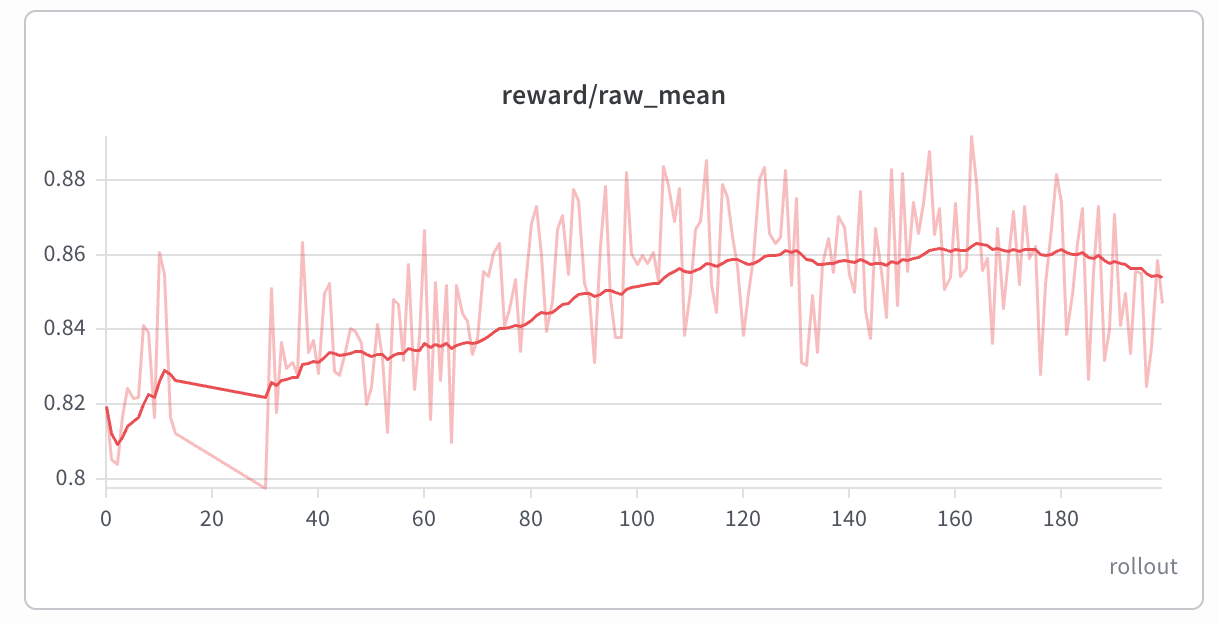
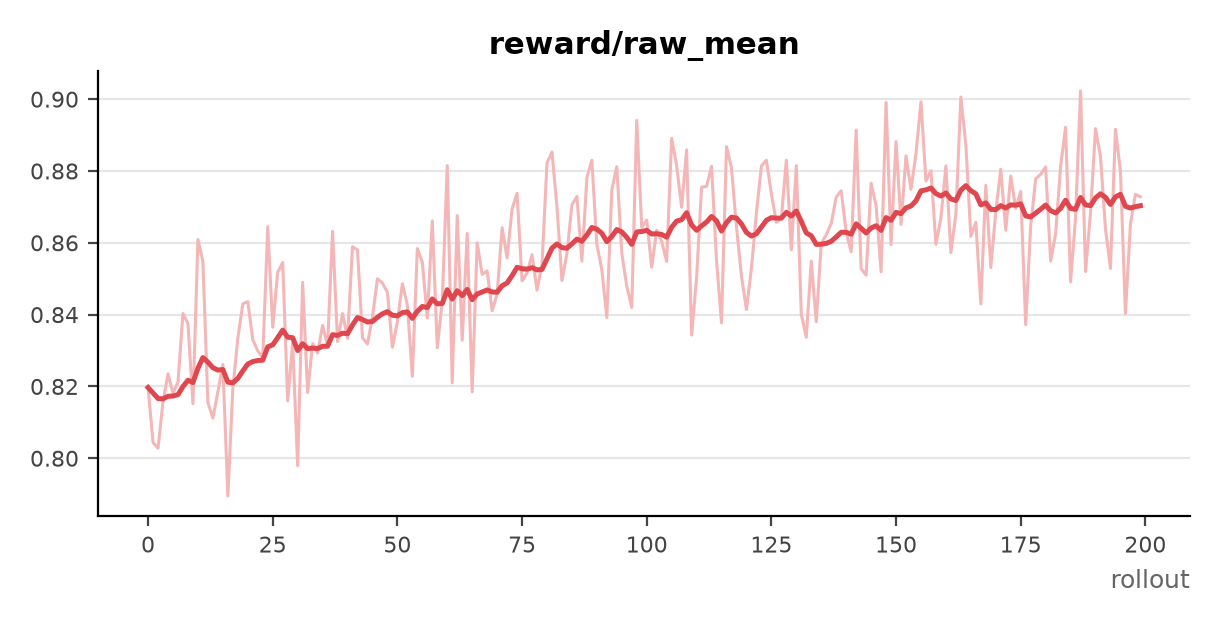
docs(qwen-image21): replace the reference curves with a run on sglang-miles and diffusers 0.41

diff --git a/docs/models/qwen-image/qwen-image-21.md b/docs/models/qwen-image/qwen-image-21.md
@@ -46,8 +46,8 @@ Canonical recipe: `scripts/run_diffusion_grpo_qwenimage21_pickscore_1gpu.py` —
 colocated GPU, train + sglang + PickScore, 512×512, 16×16 group, lr 1e-4.
 Real-weight GRPO needs ≥80GB; 32GB only finished generate.
 
-**Status:** [📈 V — Verified](../../user-guide/recipe-verification.md#v) — 200 rollouts.
-Smoothed `rollout/reward/raw_mean` rises from about 0.81 to about 0.86.
+**Status:** [📈 V — Verified](../../user-guide/recipe-verification.md#v) — 200 rollouts on one H200.
+Smoothed `rollout/reward/raw_mean` rises from about 0.82 to about 0.87.
 
 ```bash
 # alignment diagnostic: freeze weights so log_prob_mean_abs_diff is train-vs-rollout
@@ -74,12 +74,12 @@ python3 scripts/run_diffusion_grpo_qwenimage21_pickscore_1gpu.py \
 
 ## 6. Reference results
 
-The canonical 1-GPU recipe over 200 rollouts (512², 16×16, lr 1e-4):
+The canonical 1-GPU recipe over 200 rollouts (512², 16×16, lr 1e-4) on one H200:
 
 ![Qwen-Image 2.1 PickScore reward mean](../../assets/images/qwen-image/reward_mean.png)
 
-Smoothed `rollout/reward/raw_mean` moves from about 0.81 to about 0.86.
-`train/log_prob_mean_abs_diff` stays near 4e-5 on the same run:
+Smoothed `rollout/reward/raw_mean` moves from about 0.82 to about 0.87.
+`train/log_prob_mean_abs_diff` stays near 2e-5 on the same run:
 
 ![Qwen-Image 2.1 log-prob mean abs diff](../../assets/images/qwen-image/log_prob_mean_abs_diff.png)
 
